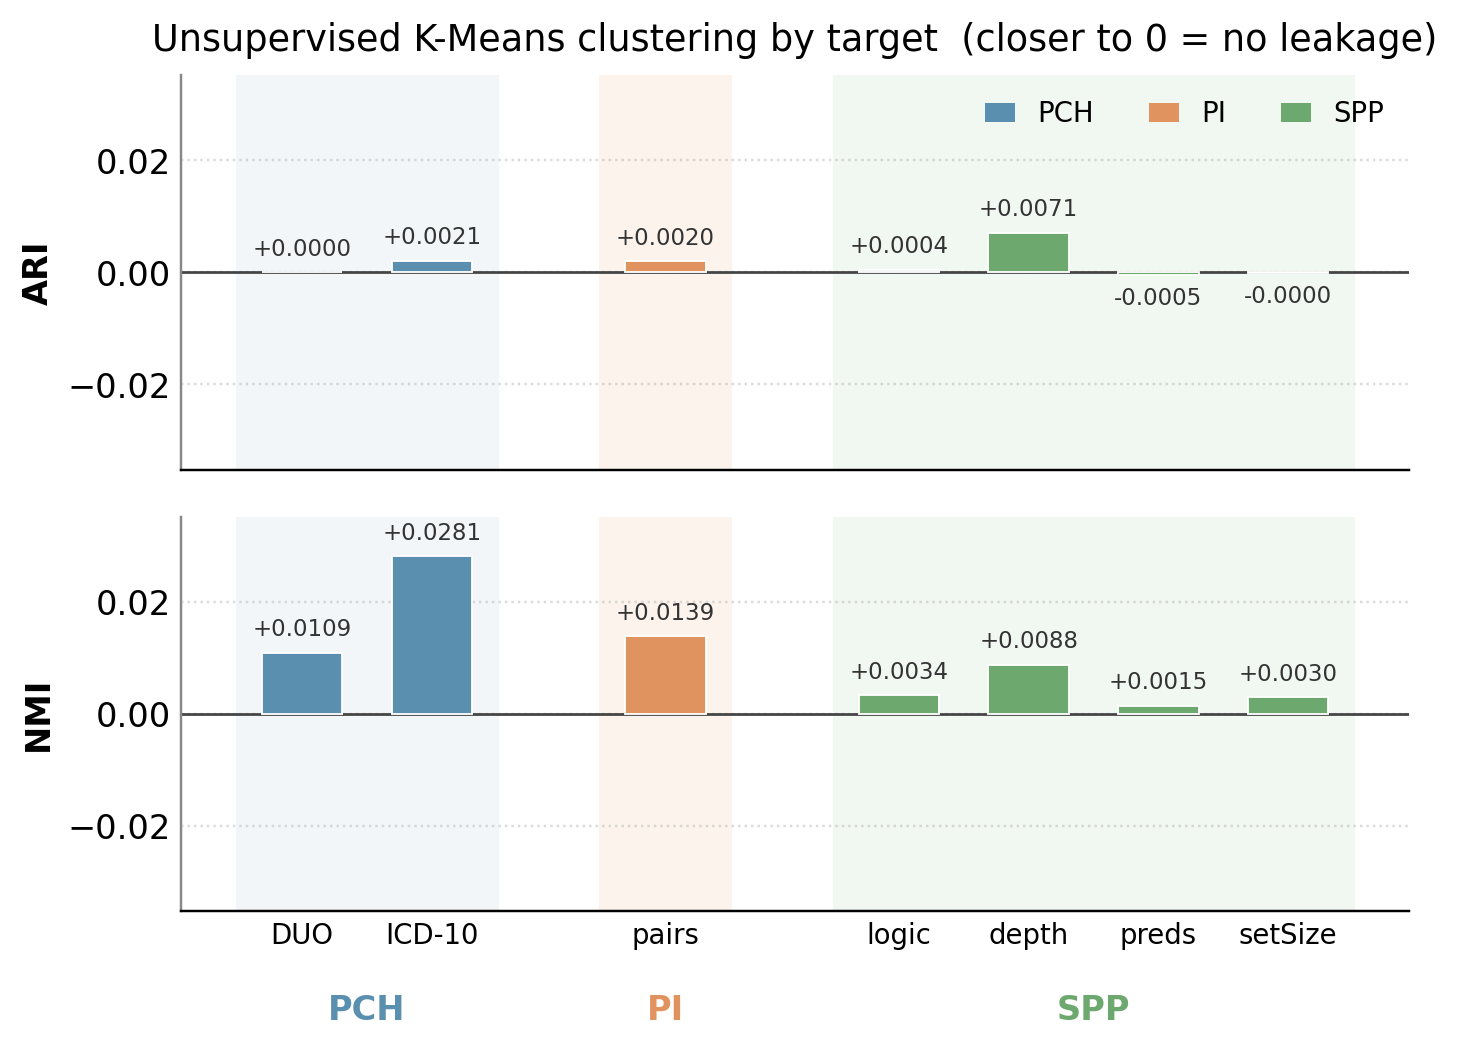
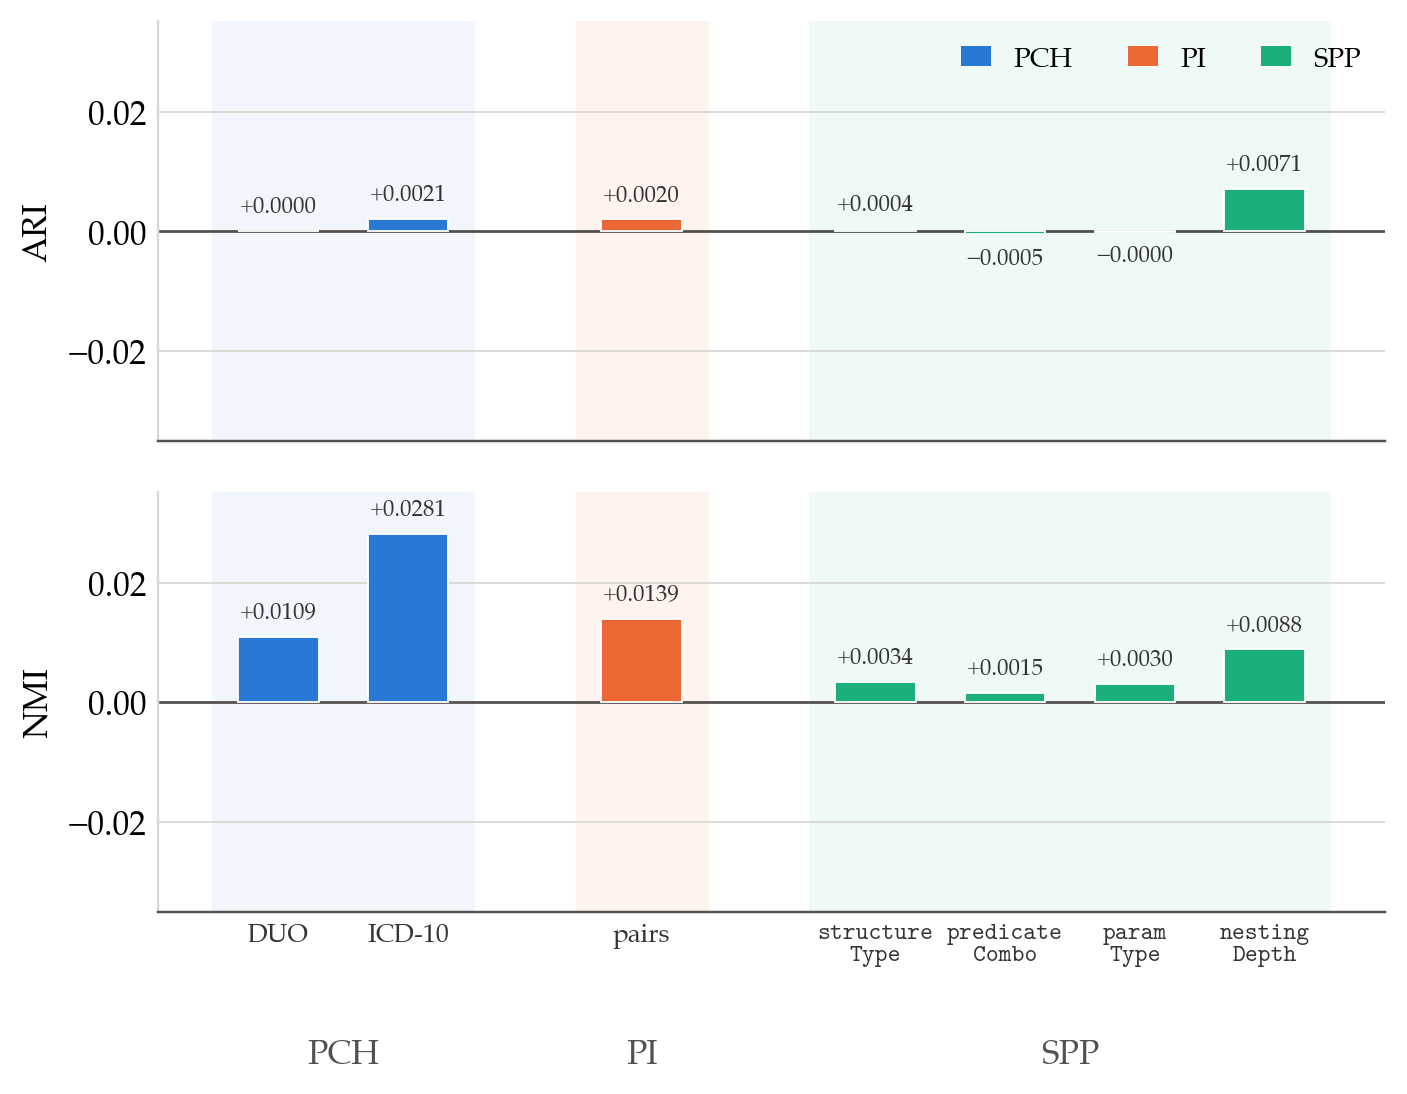
Redraw the clustering summary figure in the manuscript's typefaces
Drop the in-figure title, whose "closer to 0 = no leakage" misreads raw NMI
(it has a positive chance baseline). Label the SPP targets with the supervised
axis names in the table's order, recolor with a CVD-validated palette, and set
the text in Palatino with code identifiers in Latin Modern Mono via a shared
paper_style module. Values are unchanged.

diff --git a/experiments/analysis/clustering/plot_unified_clustering_summary.py b/experiments/analysis/clustering/plot_unified_clustering_summary.py
@@ -5,28 +5,41 @@ in a single coordinate system: every clustering target on one axis, grouped and 
 by privacy property, ARI (top) and NMI (bottom), with a y=0 reference line. Values are
 the of-record numbers behind Table `tab:clustering-summary`, read from the same CSVs:
 
-  PCH-DUO   : pch_clustering_analysis/pch_global_duo_clustering.csv
-  PCH-ICD10 : pch_clustering_analysis/pch_global_icd10_clustering.csv
-  PI        : pi_clustering_analysis/pi_balanced_debiased.csv   (mean over 133 pairs)
-  SPP       : spp_clustering_analysis/spp_clustering_summary.csv
+  PCH-DUO   : pch/pch_global_duo_clustering.csv
+  PCH-ICD10 : pch/pch_global_icd10_clustering.csv
+  PI        : pi/pi_balanced_debiased.csv   (mean over 127 balanced pairs)
+  SPP       : spp/spp_clustering_summary.csv
+
+SPP targets are labeled with the supervised axis names used in the paper, in the
+table's row order.
 
 Output: experiments/results/clustering/summary/clustering_summary_unified.png
 """
 import csv
+import re
 from pathlib import Path
 import numpy as np
 import matplotlib.pyplot as plt
 from matplotlib.patches import Patch
 
+from experiments.analysis.clustering.paper_style import mono_font, use_paper_fonts
 from experiments.analysis.paths import CLUSTERING_RESULTS_DIR
 
 RESULTS = CLUSTERING_RESULTS_DIR
 OUT_DIR = RESULTS / "summary"
 OUT_DIR.mkdir(parents=True, exist_ok=True)
 
-# soft, muted palette (one hue per property)
-COLORS = {"PCH": "#5B8FB0", "PI": "#E0925F", "SPP": "#6DA86F"}
-BAND = {"PCH": "#F2F6F8", "PI": "#FBF3EC", "SPP": "#F1F7F1"}
+# one hue per property (categorical slots 1-3, CVD-validated all-pairs on white)
+COLORS = {"PCH": "#2A78D6", "PI": "#EB6834", "SPP": "#1BAF7A"}
+BAND = {"PCH": "#F1F6FC", "PI": "#FEF3EE", "SPP": "#EFF9F5"}
+INK = "#333333"
+MUTED = "#52514E"
+GRID = "#D9D8D2"
+
+
+def signed(v):
+    """+0.0021 / \u22120.0005 with a typographic minus, as in the table."""
+    return f"{v:+.4f}".replace("-", "\u2212")
 
 
 def read_rows(path):
@@ -46,14 +59,16 @@ def collect():
     pi_nmi = float(np.mean([float(r["observed_nmi"]) for r in pi]))
     rows.append(("PI", "pairs", pi_ari, pi_nmi))
 
-    spp_short = {
-        "logicStructure": "logic",
-        "nestingDepth": "depth",
-        "predicateCount": "preds",
-        "setSize": "setSize",
-    }
-    for r in read_rows(RESULTS / "spp/spp_clustering_summary.csv"):
-        lbl = spp_short.get(r["target"], r["target"])
+    # raw CSV field -> supervised axis name (same mapping as tab:clustering-summary)
+    spp_axes = [
+        ("logicStructure", "structureType"),
+        ("predicateCount", "predicateCombo"),
+        ("setSize", "paramType"),
+        ("nestingDepth", "nestingDepth"),
+    ]
+    spp = {r["target"]: r for r in read_rows(RESULTS / "spp/spp_clustering_summary.csv")}
+    for field, lbl in spp_axes:
+        r = spp[field]
         rows.append(("SPP", lbl, float(r["kmeans_ari"]), float(r["kmeans_nmi"])))
     return rows
 
@@ -82,7 +97,7 @@ def main():
     bar_colors = [COLORS[p] for p in props]
     pos, spans = grouped_positions(props)
 
-    plt.rcParams.update({"font.size": 11, "axes.titlesize": 12})
+    use_paper_fonts(11)
     fig, (ax_a, ax_n) = plt.subplots(2, 1, figsize=(7.2, 5.0), sharex=True)
 
     for ax, vals, name in [(ax_a, ari, "ARI"), (ax_n, nmi, "NMI")]:
@@ -91,37 +106,43 @@ def main():
             ax.axvspan(min(xs) - 0.5, max(xs) + 0.5, color=BAND[p], zorder=0)
         bars = ax.bar(pos, vals, width=0.62, color=bar_colors,
                       edgecolor="white", linewidth=0.6, zorder=3)
-        ax.axhline(0, color="#444444", linewidth=0.9, zorder=2)
+        ax.axhline(0, color=MUTED, linewidth=0.9, zorder=2)
         m = max(0.024, float(np.abs(np.concatenate([ari, nmi])).max()) * 1.25)
         ax.set_ylim(-m, m)
-        ax.set_ylabel(name, fontweight="bold")
-        ax.grid(axis="y", linestyle=":", alpha=0.45, zorder=1)
+        ax.set_ylabel(name)
+        ax.grid(axis="y", color=GRID, linewidth=0.6, zorder=1)
         # value labels at bar tips
         for b, v in zip(bars, vals):
             off = m * 0.06
             ax.text(b.get_x() + b.get_width() / 2,
-                    v + (off if v >= 0 else -off), f"{v:+.4f}",
+                    v + (off if v >= 0 else -off), signed(v),
                     ha="center", va="bottom" if v >= 0 else "top", fontsize=7.5,
-                    color="#333333")
+                    color=INK)
         for side in ("top", "right"):
             ax.spines[side].set_visible(False)
-        ax.spines["left"].set_color("#888888")
+        ax.spines["left"].set_color(GRID)
+        ax.spines["bottom"].set_color(MUTED)
         ax.tick_params(length=0)
 
     # property group names under the x-axis
     ax_n.set_xticks(pos)
-    ax_n.set_xticklabels(labels, fontsize=9)
+    # break camelCase axis names onto two lines so adjacent labels do not collide
+    wrapped = [re.sub(r"([a-z])([A-Z])", r"\1\n\2", l) for l in labels]
+    ax_n.set_xticklabels(wrapped, fontsize=8.5, color=INK, linespacing=1.1)
+    # SPP axis names are code identifiers (\texttt in the table and text)
+    mono = mono_font(8)
+    for tick, p in zip(ax_n.get_xticklabels(), props):
+        if p == "SPP":
+            tick.set_fontproperties(mono)
     for p, xs in spans.items():
-        ax_n.text(np.mean(xs), -m * 1.42, p, ha="center", va="top",
-                  fontsize=11, fontweight="bold", color=COLORS[p])
+        ax_n.text(np.mean(xs), -m * 1.6, p, ha="center", va="top",
+                  fontsize=11, color=MUTED)
 
-    ax_a.set_title("Unsupervised K-Means clustering by target  (closer to 0 = no leakage)",
-                   pad=8)
     legend = [Patch(facecolor=COLORS[k], label=k) for k in ("PCH", "PI", "SPP")]
     ax_a.legend(handles=legend, loc="upper right", ncol=3, frameon=False,
                 fontsize=9, handlelength=1.1)
 
-    fig.subplots_adjust(hspace=0.12, bottom=0.16, top=0.92)
+    fig.subplots_adjust(hspace=0.12, bottom=0.16, top=0.97)
     out = OUT_DIR / "clustering_summary_unified.png"
     fig.savefig(out, dpi=220, bbox_inches="tight")
     print(f"wrote {out}")

diff --git a/experiments/analysis/clustering/paper_style.py b/experiments/analysis/clustering/paper_style.py
@@ -1,0 +1,43 @@
+"""Typefaces shared by the paper figures, matched to the MDPI manuscript.
+
+mdpi.cls loads mathpazo (URW Palladio L, a Palatino clone) for the text, and \\texttt
+renders in Latin Modern Mono. Labels stay regular weight and math stays upright:
+matplotlib reads only the first (regular) face of macOS Palatino.ttc.
+"""
+from pathlib import Path
+
+import matplotlib.pyplot as plt
+from matplotlib import font_manager
+
+SERIF = ["Palatino", "TeX Gyre Pagella", "URW Palladio L", "P052", "DejaVu Serif"]
+
+
+def use_paper_fonts(size=11):
+    """Palatino for text and mathtext, with a typographic minus."""
+    plt.rcParams.update({
+        "font.size": size,
+        "font.family": "serif",
+        "font.serif": SERIF,
+        "axes.unicode_minus": True,
+        "mathtext.fontset": "custom",
+        "mathtext.rm": SERIF[0],
+        "mathtext.it": SERIF[0],
+        "mathtext.bf": SERIF[0],
+    })
+
+
+def find_lm_mono():
+    """Latin Modern Mono from the local Tectonic bundle cache (macOS or Linux), if any."""
+    for cache in (Path.home() / "Library/Caches/Tectonic", Path.home() / ".cache/Tectonic"):
+        hits = sorted(cache.glob("bundles/data/*/lmmono10-regular.otf"))
+        if hits:
+            return hits[0]
+    return None
+
+
+def mono_font(size):
+    path = find_lm_mono()
+    if path is None:
+        print("warning: Latin Modern Mono not found; code identifiers fall back to monospace")
+        return font_manager.FontProperties(family="monospace", size=size)
+    return font_manager.FontProperties(fname=str(path), size=size)

diff --git a/paper_mdpi/sec_clustering.tex b/paper_mdpi/sec_clustering.tex
@@ -19,7 +19,7 @@ With that qualification, the unsupervised attacker agrees with the supervised ve
 \begin{figure}[htbp]
 	\centering
 	\includegraphics[width=\linewidth]{clustering_summary_unified.png}
-	\caption{Unsupervised K-Means clustering across all three objectives: ARI (top) and
+	\caption{Unsupervised K-Means clustering across three objectives: ARI (top) and
 		NMI (bottom) per target.}
 	\label{fig:clust-summary}
 \end{figure}
